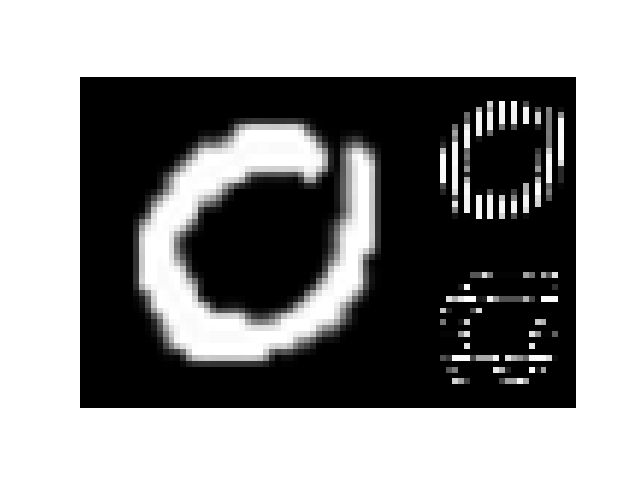
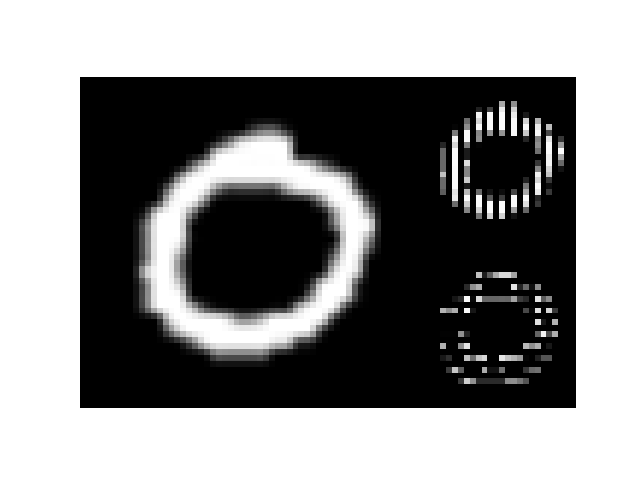
add experiment6.py noleak image

Changed region(s): [[0.1875, 0.2188, 0.5938, 0.7812], [0.6875, 0.1875, 0.9062, 0.4688], [0.6875, 0.5625, 0.875, 0.8125]]

diff --git a/experiments/experiment2.py b/experiments/experiment2.py
@@ -102,6 +102,31 @@ def save_image(matrix, file_path):
     # 保存图像
     image.save(file_path)
 
+
+def add_255_border(matrix):
+    """
+    给一个NumPy矩阵在最后一行和最右边添加两个全为255的行和列
+
+    参数:
+    matrix (numpy.ndarray): 输入的二维灰度图像矩阵
+
+    返回:
+    numpy.ndarray: 添加了255边界后的矩阵
+    """
+    if not isinstance(matrix, np.ndarray):
+        raise ValueError("输入必须是一个NumPy矩阵")
+    
+    # 创建一个全为255的行和列
+    row_255 = np.full((1, matrix.shape[1]), 255, dtype=np.uint8)
+    col_255 = np.full((matrix.shape[0] + 1, 1), 255, dtype=np.uint8)
+
+    # 先添加行，再添加列
+    matrix_with_row = np.vstack([matrix, row_255])
+    matrix_with_row_and_col = np.hstack([matrix_with_row, col_255])
+    
+    return matrix_with_row_and_col
+
+
 # 示例使用
 if __name__ == "__main__":
 
@@ -118,14 +143,16 @@ if __name__ == "__main__":
         for matrix in list_matrices:
             processor = PictureProcessor(matrix)
             leak_left, restore_left, leak_right, restore_right = processor.process_matrices()
-            tuple_matrices1.append((matrix, restore_left, restore_right))
+            # tuple_matrices1.append((matrix, restore_left, restore_right))
+            tuple_matrices1.append((add_255_border(matrix), add_255_border(restore_left), add_255_border(restore_right)))
     # 读取标签5-9的灰度图像转换成矩阵
     for i in range(5, 10):
         list_matrices = loader.load_random_images(i)        
         for matrix in list_matrices:
             processor = PictureProcessor(matrix)
             leak_left, restore_left, leak_right, restore_right = processor.process_matrices()
-            tuple_matrices2.append((matrix, restore_left, restore_right))
+            # tuple_matrices2.append((matrix, restore_left, restore_right))
+            tuple_matrices2.append((add_255_border(matrix), add_255_border(restore_left), add_255_border(restore_right)))
 
     
     painter = MatrixPainter()

diff --git a/experiments/experiment6.py b/experiments/experiment6.py
@@ -209,6 +209,30 @@ def save_image(matrix, file_path):
     # 保存图像
     image.save(file_path)
 
+
+def add_255_border(matrix):
+    """
+    给一个NumPy矩阵在最后一行和最右边添加两个全为255的行和列
+
+    参数:
+    matrix (numpy.ndarray): 输入的二维灰度图像矩阵
+
+    返回:
+    numpy.ndarray: 添加了255边界后的矩阵
+    """
+    if not isinstance(matrix, np.ndarray):
+        raise ValueError("输入必须是一个NumPy矩阵")
+    
+    # 创建一个全为255的行和列
+    row_255 = np.full((1, matrix.shape[1]), 255, dtype=np.uint8)
+    col_255 = np.full((matrix.shape[0] + 1, 1), 255, dtype=np.uint8)
+
+    # 先添加行，再添加列
+    matrix_with_row = np.vstack([matrix, row_255])
+    matrix_with_row_and_col = np.hstack([matrix_with_row, col_255])
+    
+    return matrix_with_row_and_col
+
 # 示例使用
 if __name__ == "__main__":
 
@@ -225,14 +249,15 @@ if __name__ == "__main__":
         for matrix in list_matrices:
             processor = PictureProcessor(matrix)
             leak_left, restore_left, leak_right, restore_right = processor.process_matrices()
-            tuple_matrices1.append((matrix, restore_left, restore_right))
+            tuple_matrices1.append((add_255_border(matrix), add_255_border(restore_left), add_255_border(restore_right)))
     # 读取标签5-9的灰度图像转换成矩阵
     for i in range(5, 10):
         list_matrices = loader.load_random_images(i)        
         for matrix in list_matrices:
             processor = PictureProcessor(matrix)
             leak_left, restore_left, leak_right, restore_right = processor.process_matrices()
-            tuple_matrices2.append((matrix, restore_left, restore_right))
+            tuple_matrices2.append((add_255_border(matrix), add_255_border(restore_left), add_255_border(restore_right)))
+            # tuple_matrices2.append((matrix, restore_left, restore_right))
 
     
     painter = MatrixPainter()

diff --git a/util/painting.py b/util/painting.py
@@ -229,8 +229,8 @@ class MatrixPainter:
         plt.axis('off')
         # plt.savefig('../picture/final_stacked.png')
         # 在保存图片时，使用bbox_inches='tight'来自动去掉白边 这个是泄露的
-        # plt.savefig('picture/mnist_leak_images.png', bbox_inches='tight')
-        plt.savefig('picture/mnist_no_leak_images.png', bbox_inches='tight')
+        plt.savefig('picture/mnist_leak_images.png', bbox_inches='tight')
+        # plt.savefig('picture/mnist_no_leak_images.png', bbox_inches='tight')
         plt.show()
 
         # return final_stacked_img
